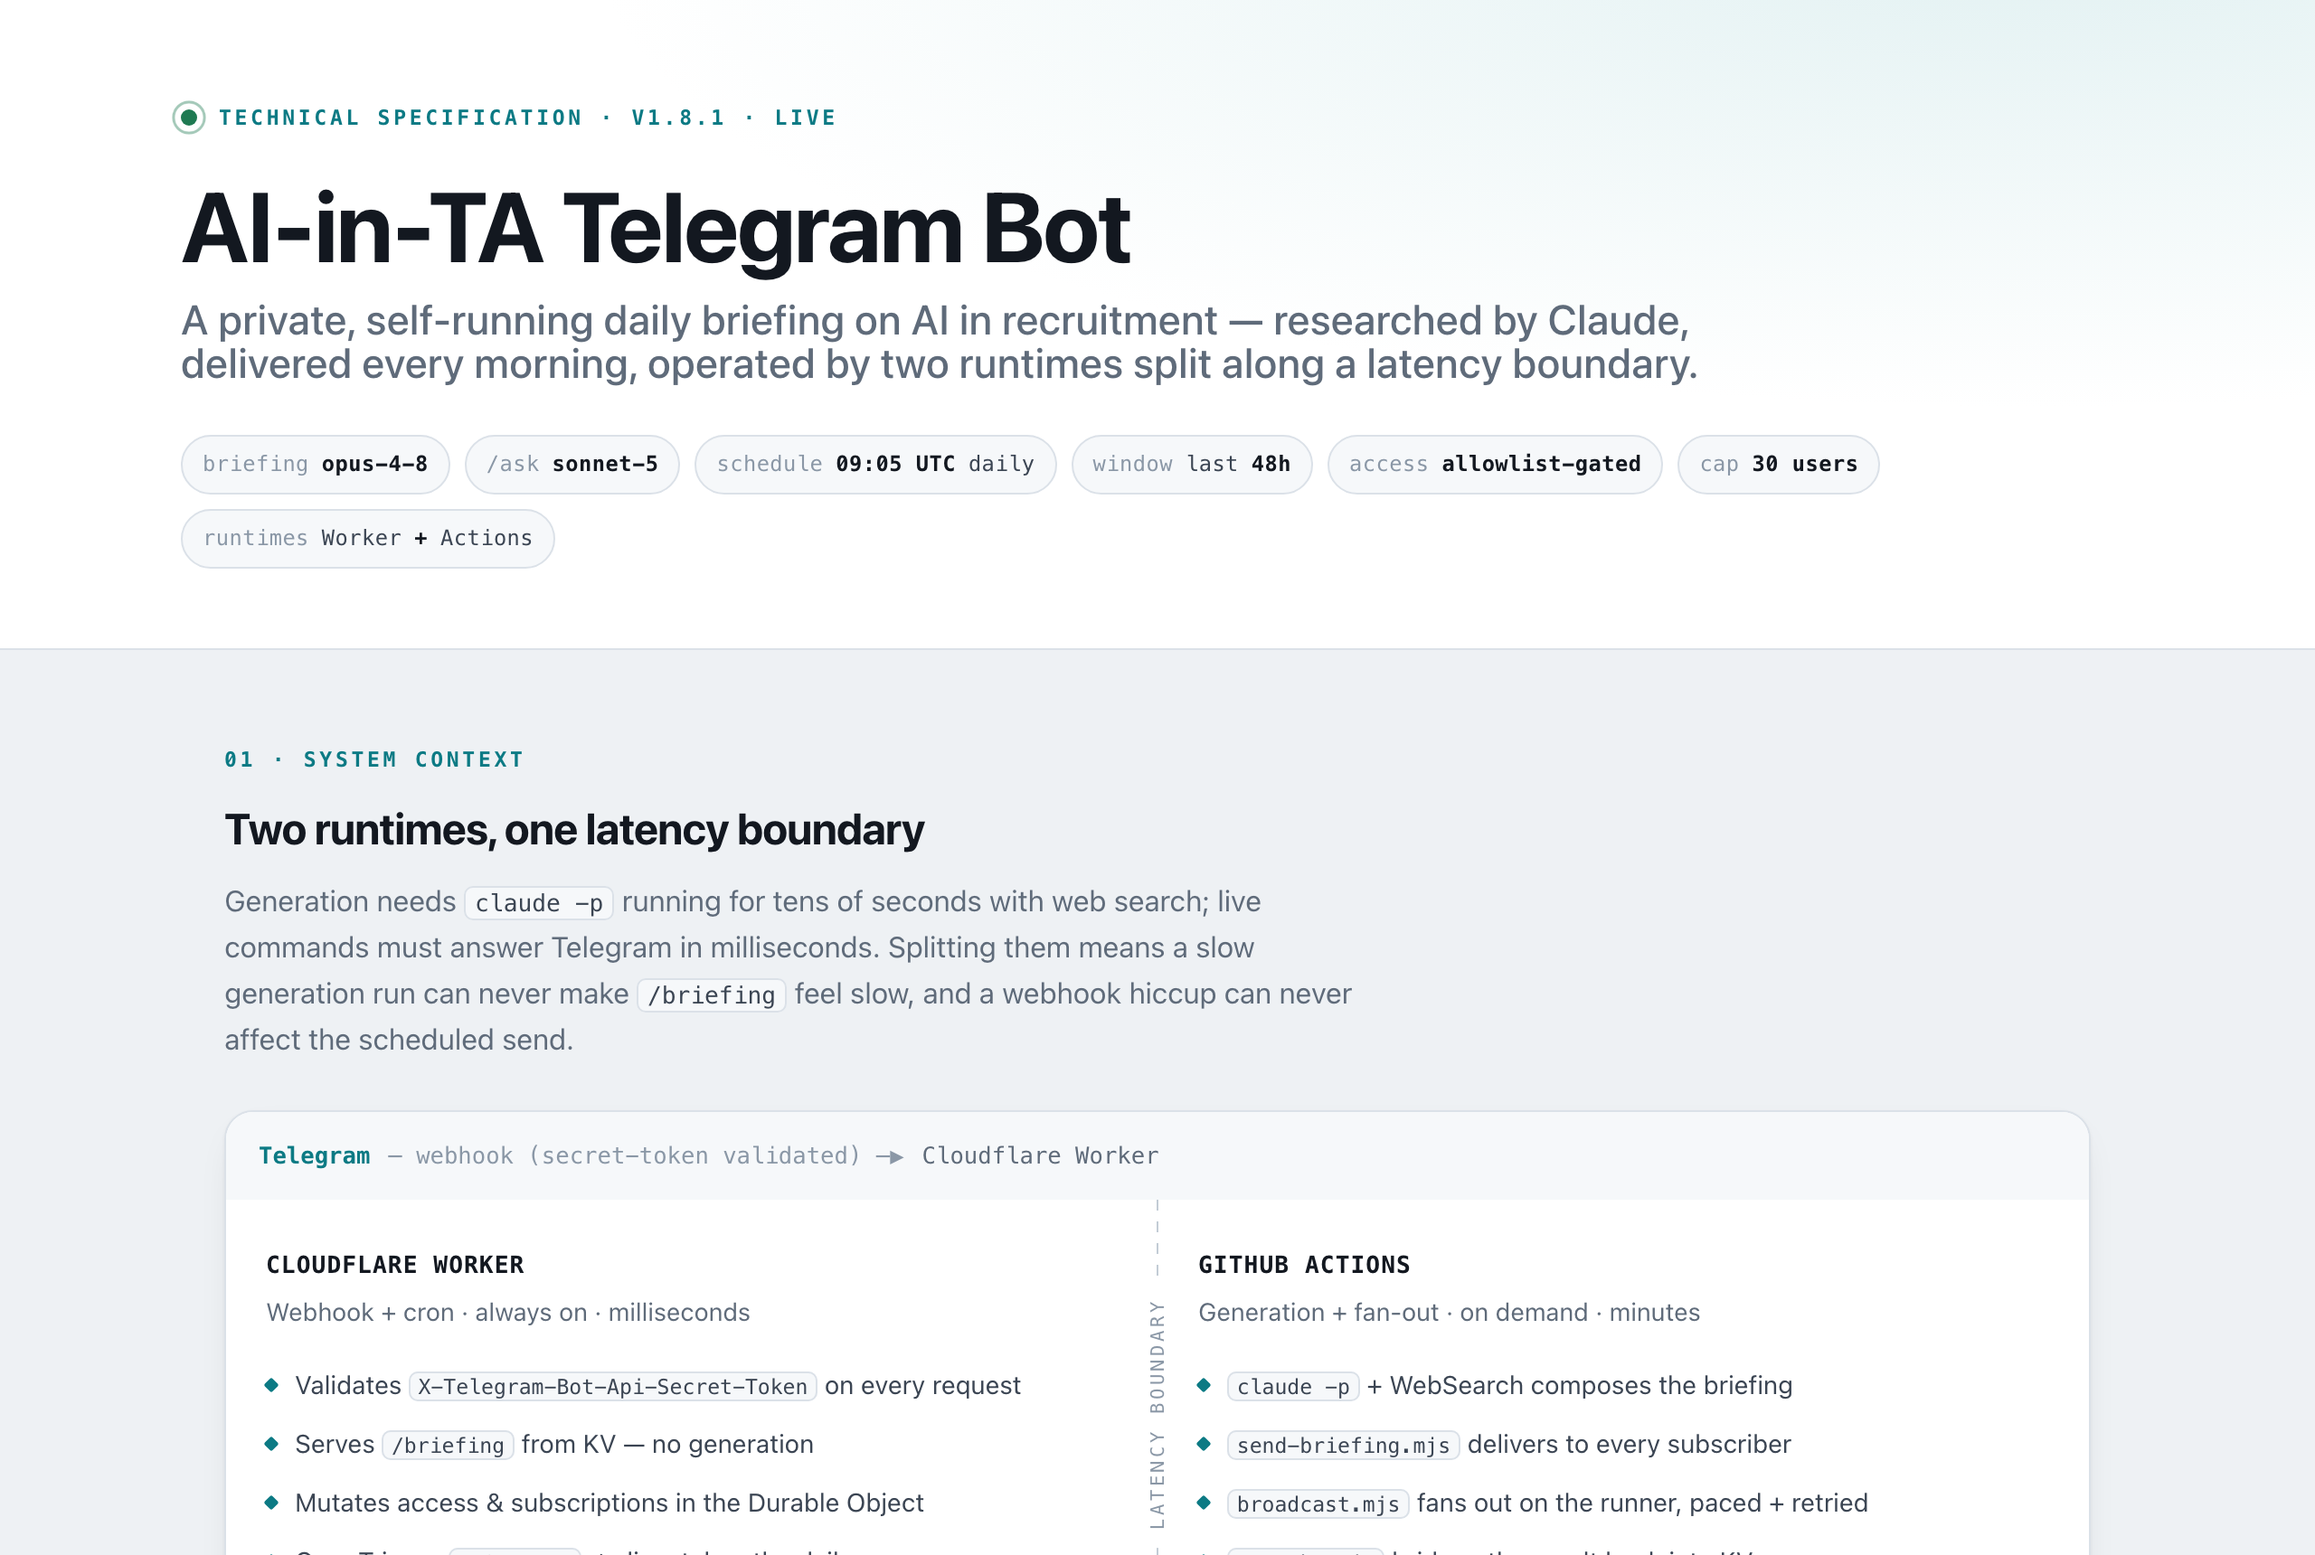
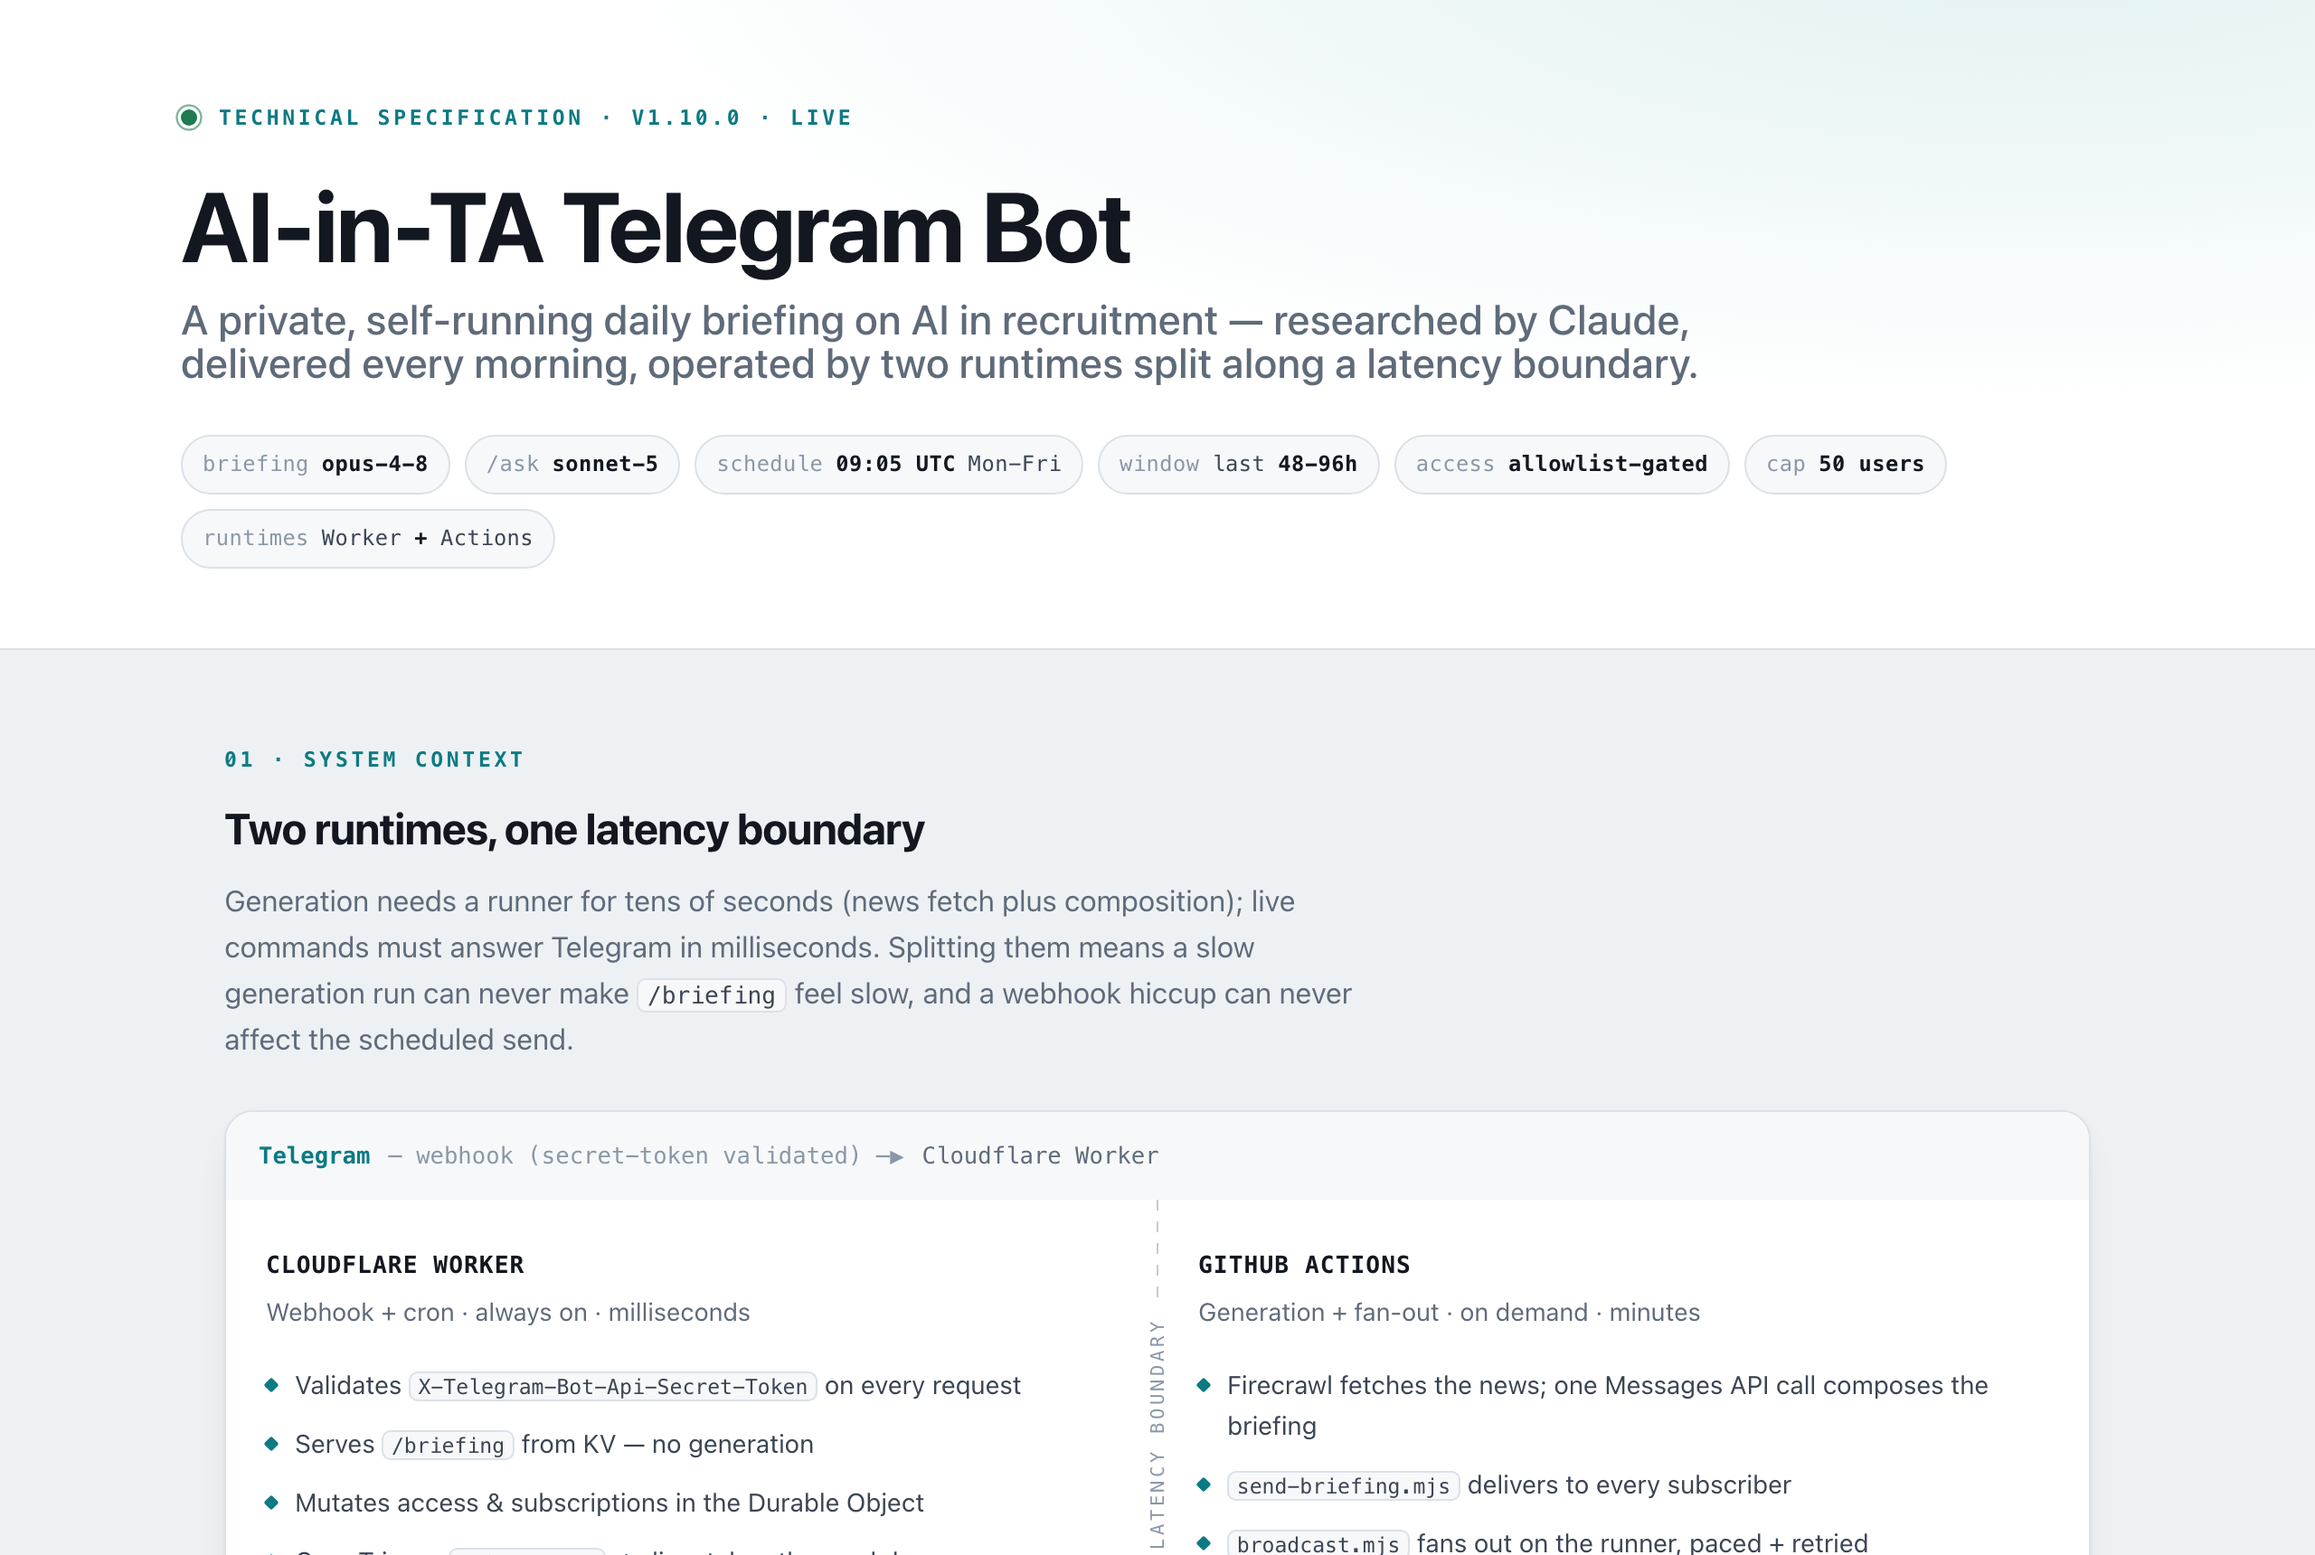
README: approval wording, /newbriefing caps, spec covers v1.10.0 (#122)
* README: DM the owner only when access is needed right away

* README: fix /newbriefing caps, refresh spec covers to v1.10.0

* README: remove stale 'Paused for now' line

diff --git a/README.md b/README.md
@@ -8,8 +8,7 @@ A Telegram bot that sends a **daily briefing on AI in recruitment** — the late
 
 Subscribers tap `/subscribe` and get the briefing every weekday morning at **09:05 UTC / 12:05 MSK** (Mon-Fri; Monday's edition widens its freshness window to cover the weekend). No app to install, no laptop to keep awake — everything runs on GitHub Actions and a Cloudflare Worker.
 
-You can try the bot in Telegram: @AIinTANewsBot (my approval is necessary, so DM me after your request via TG @Da6ka).
-Paused for now.
+You can try the bot in Telegram: @AIinTANewsBot (access needs my approval, which I give in due course; if you need it right away, DM me on Telegram: @Da6ka).
 
 ---
 
@@ -93,7 +92,7 @@ To stop: **`/unsubscribe`** ends the daily send but keeps your access; **`/forge
 
 > **`/ask` has its own, looser limits** — 10 questions per person per day, 40 across everyone, and 30 seconds between them. Separate counters from the briefing ones on purpose: answering a question is a search over files the bot already wrote, not a paid web-research run, so questions never eat into your `/newbriefing` allowance.
 
-> **`/newbriefing` is rate-limited.** A fresh briefing is delivered only to you, but each run is a paid generation that overwrites the one shared cached edition `/briefing` serves everyone — so three limits apply: a 60-minute cooldown between runs (5 minutes for the owner), global because the cache and the cost are shared (back-to-back regenerations would just re-spend to overwrite the same copy); a cap of 3 per person per day, so no single user hogs it; and 5 across all users per day, the actual cost ceiling. Hit any of them and you get today's cached copy instead of an error — and the morning briefing is never affected by these limits.
+> **`/newbriefing` is rate-limited.** A fresh briefing is delivered only to you, but each run is a paid generation that overwrites the one shared cached edition `/briefing` serves everyone — so three limits apply: a 60-minute cooldown between runs (5 minutes for the owner), global because the cache and the cost are shared (back-to-back regenerations would just re-spend to overwrite the same copy); a cap of 2 per person per day, so no single user hogs it; and 2 across all users per day, the actual cost ceiling. Hit any of them and you get today's cached copy instead of an error — and the morning briefing is never affected by these limits.
 
 **Privacy**
 

diff --git a/CHANGELOG.md b/CHANGELOG.md
@@ -2,6 +2,10 @@
 
 ## [Unreleased]
 
+### README: approval wording, `/newbriefing` caps, spec covers
+
+The README no longer asks every applicant to DM the owner after requesting access. Approval comes in due course; a DM is only for someone who needs it immediately. The `/newbriefing` limits now match the code (2 per person and 2 across everyone per day, not 3 and 5). The two spec cover images are re-rendered from the v1.10.0 spec page (they still showed v1.8.1 and a 30-user cap). The stale "Paused for now." line is removed (the bot is live again). Docs only, no behavior change.
+
 ## [1.10.0] - 2026-10-24
 
 ### /start now points a new applicant at /privacy
